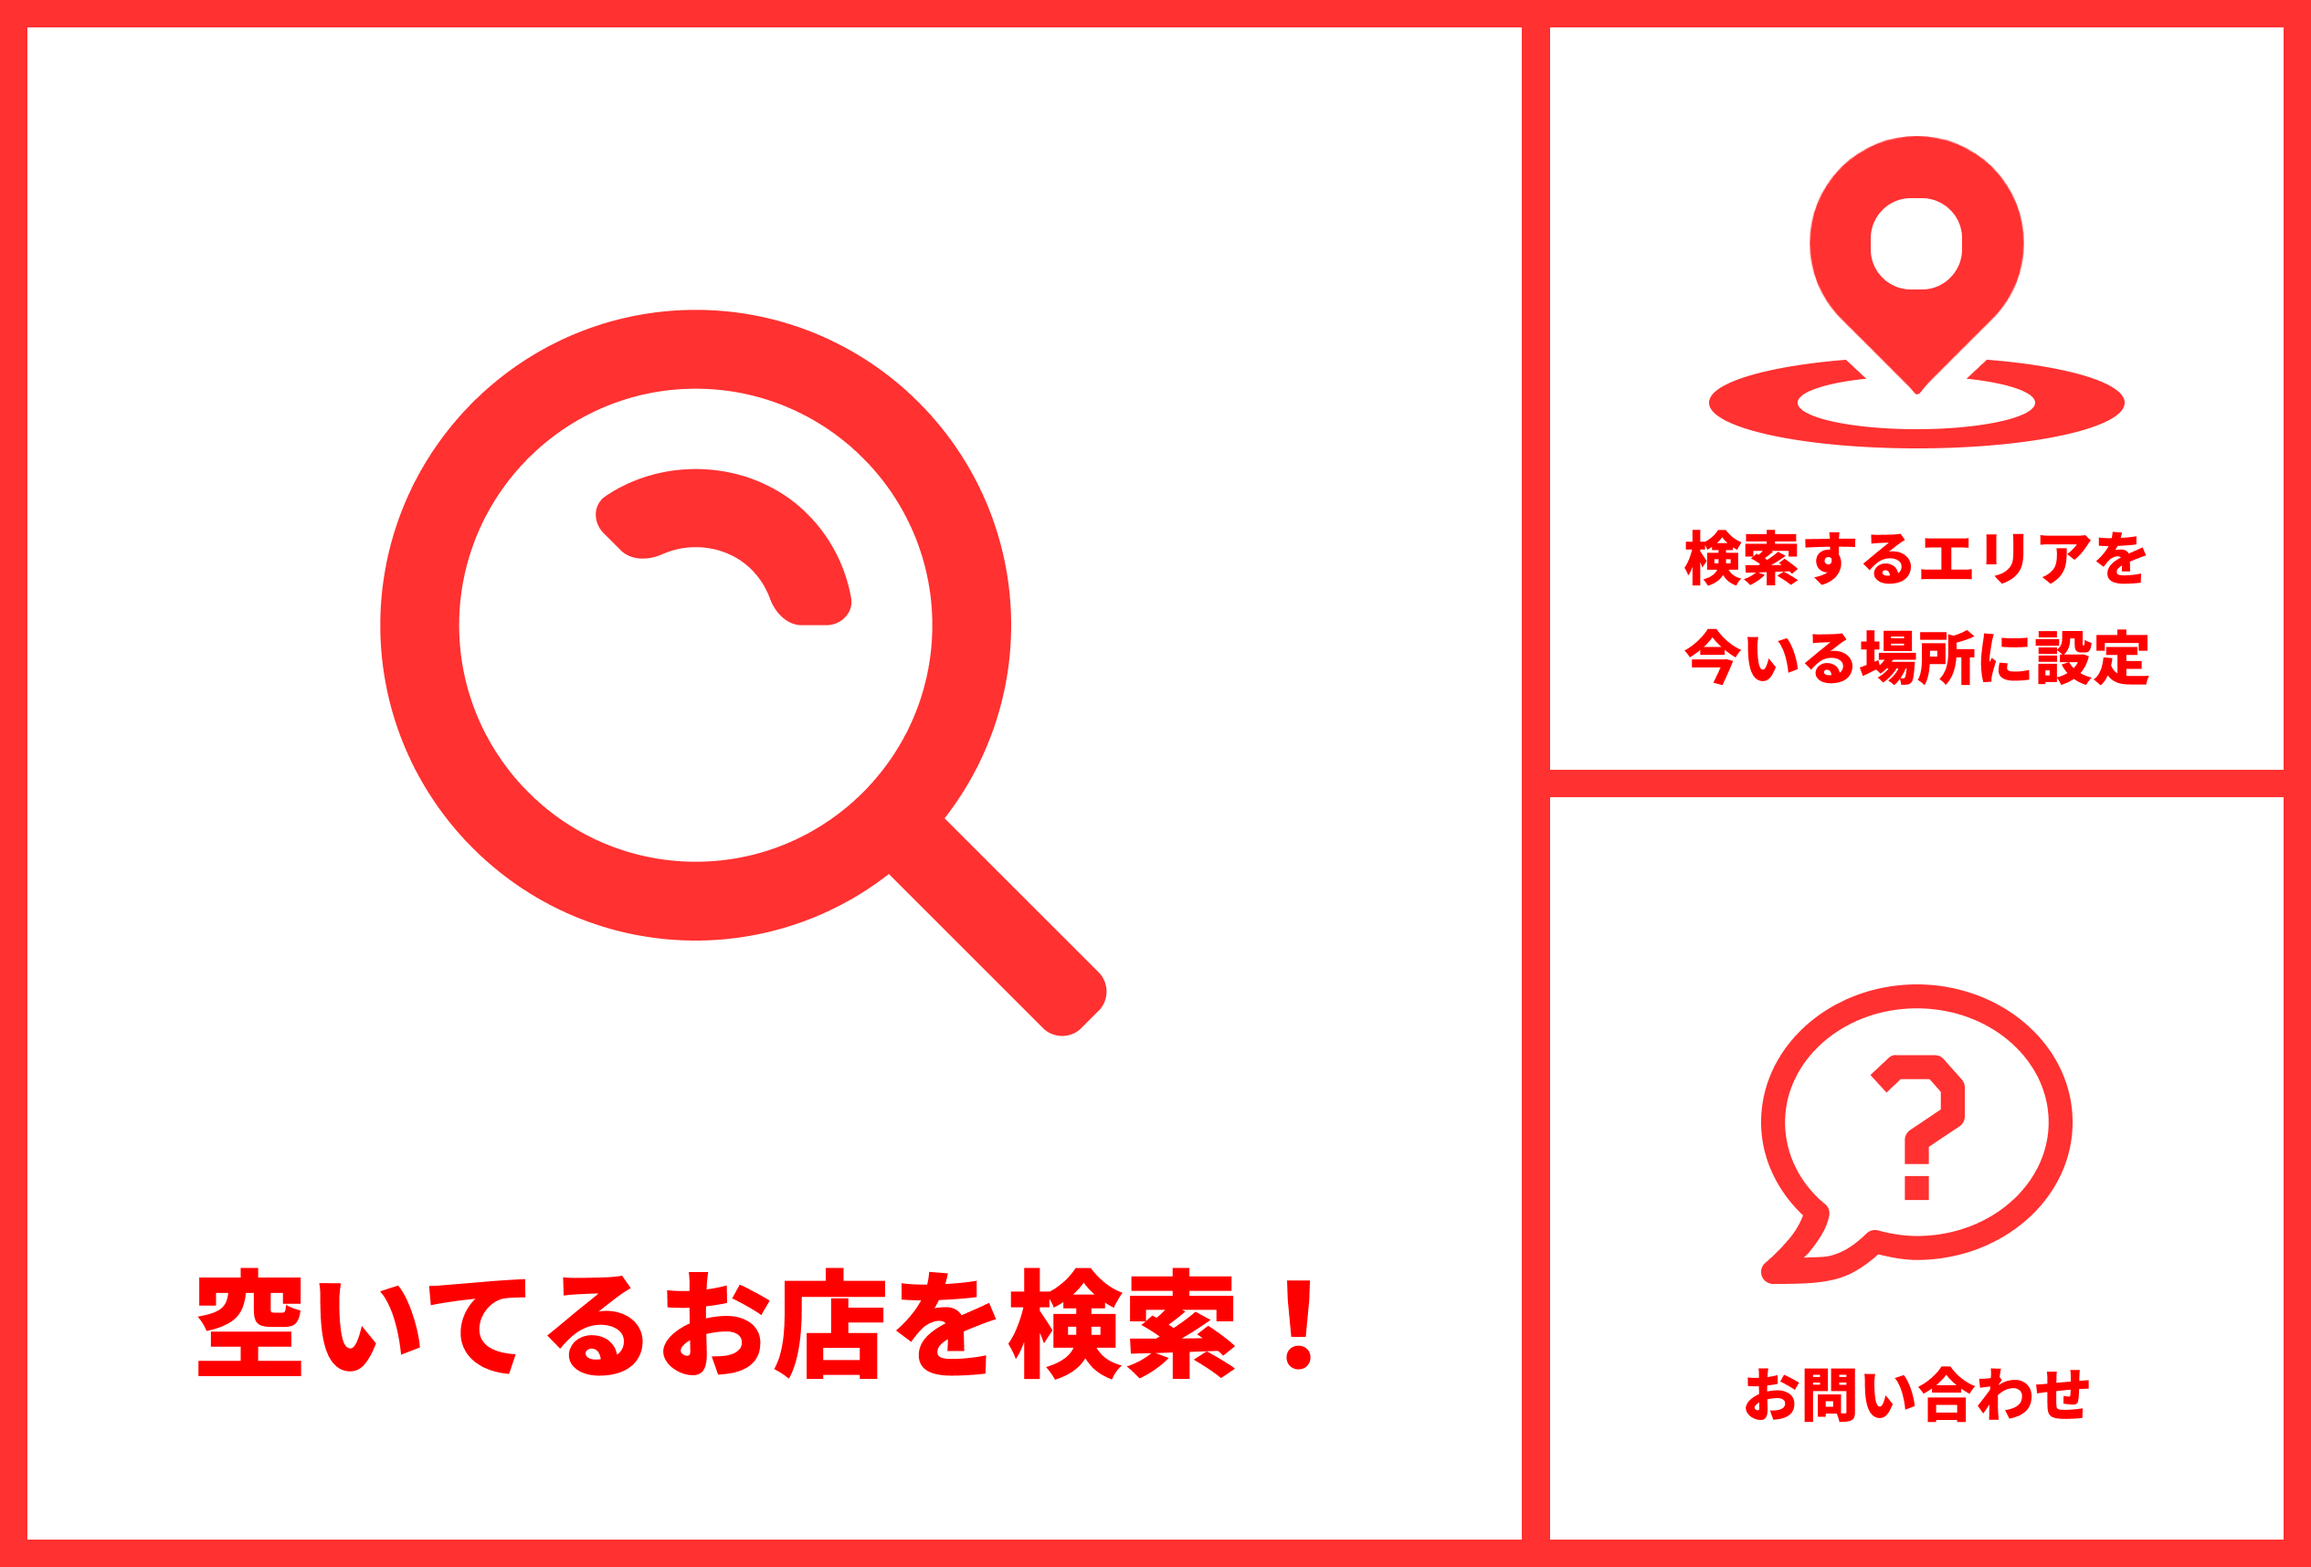
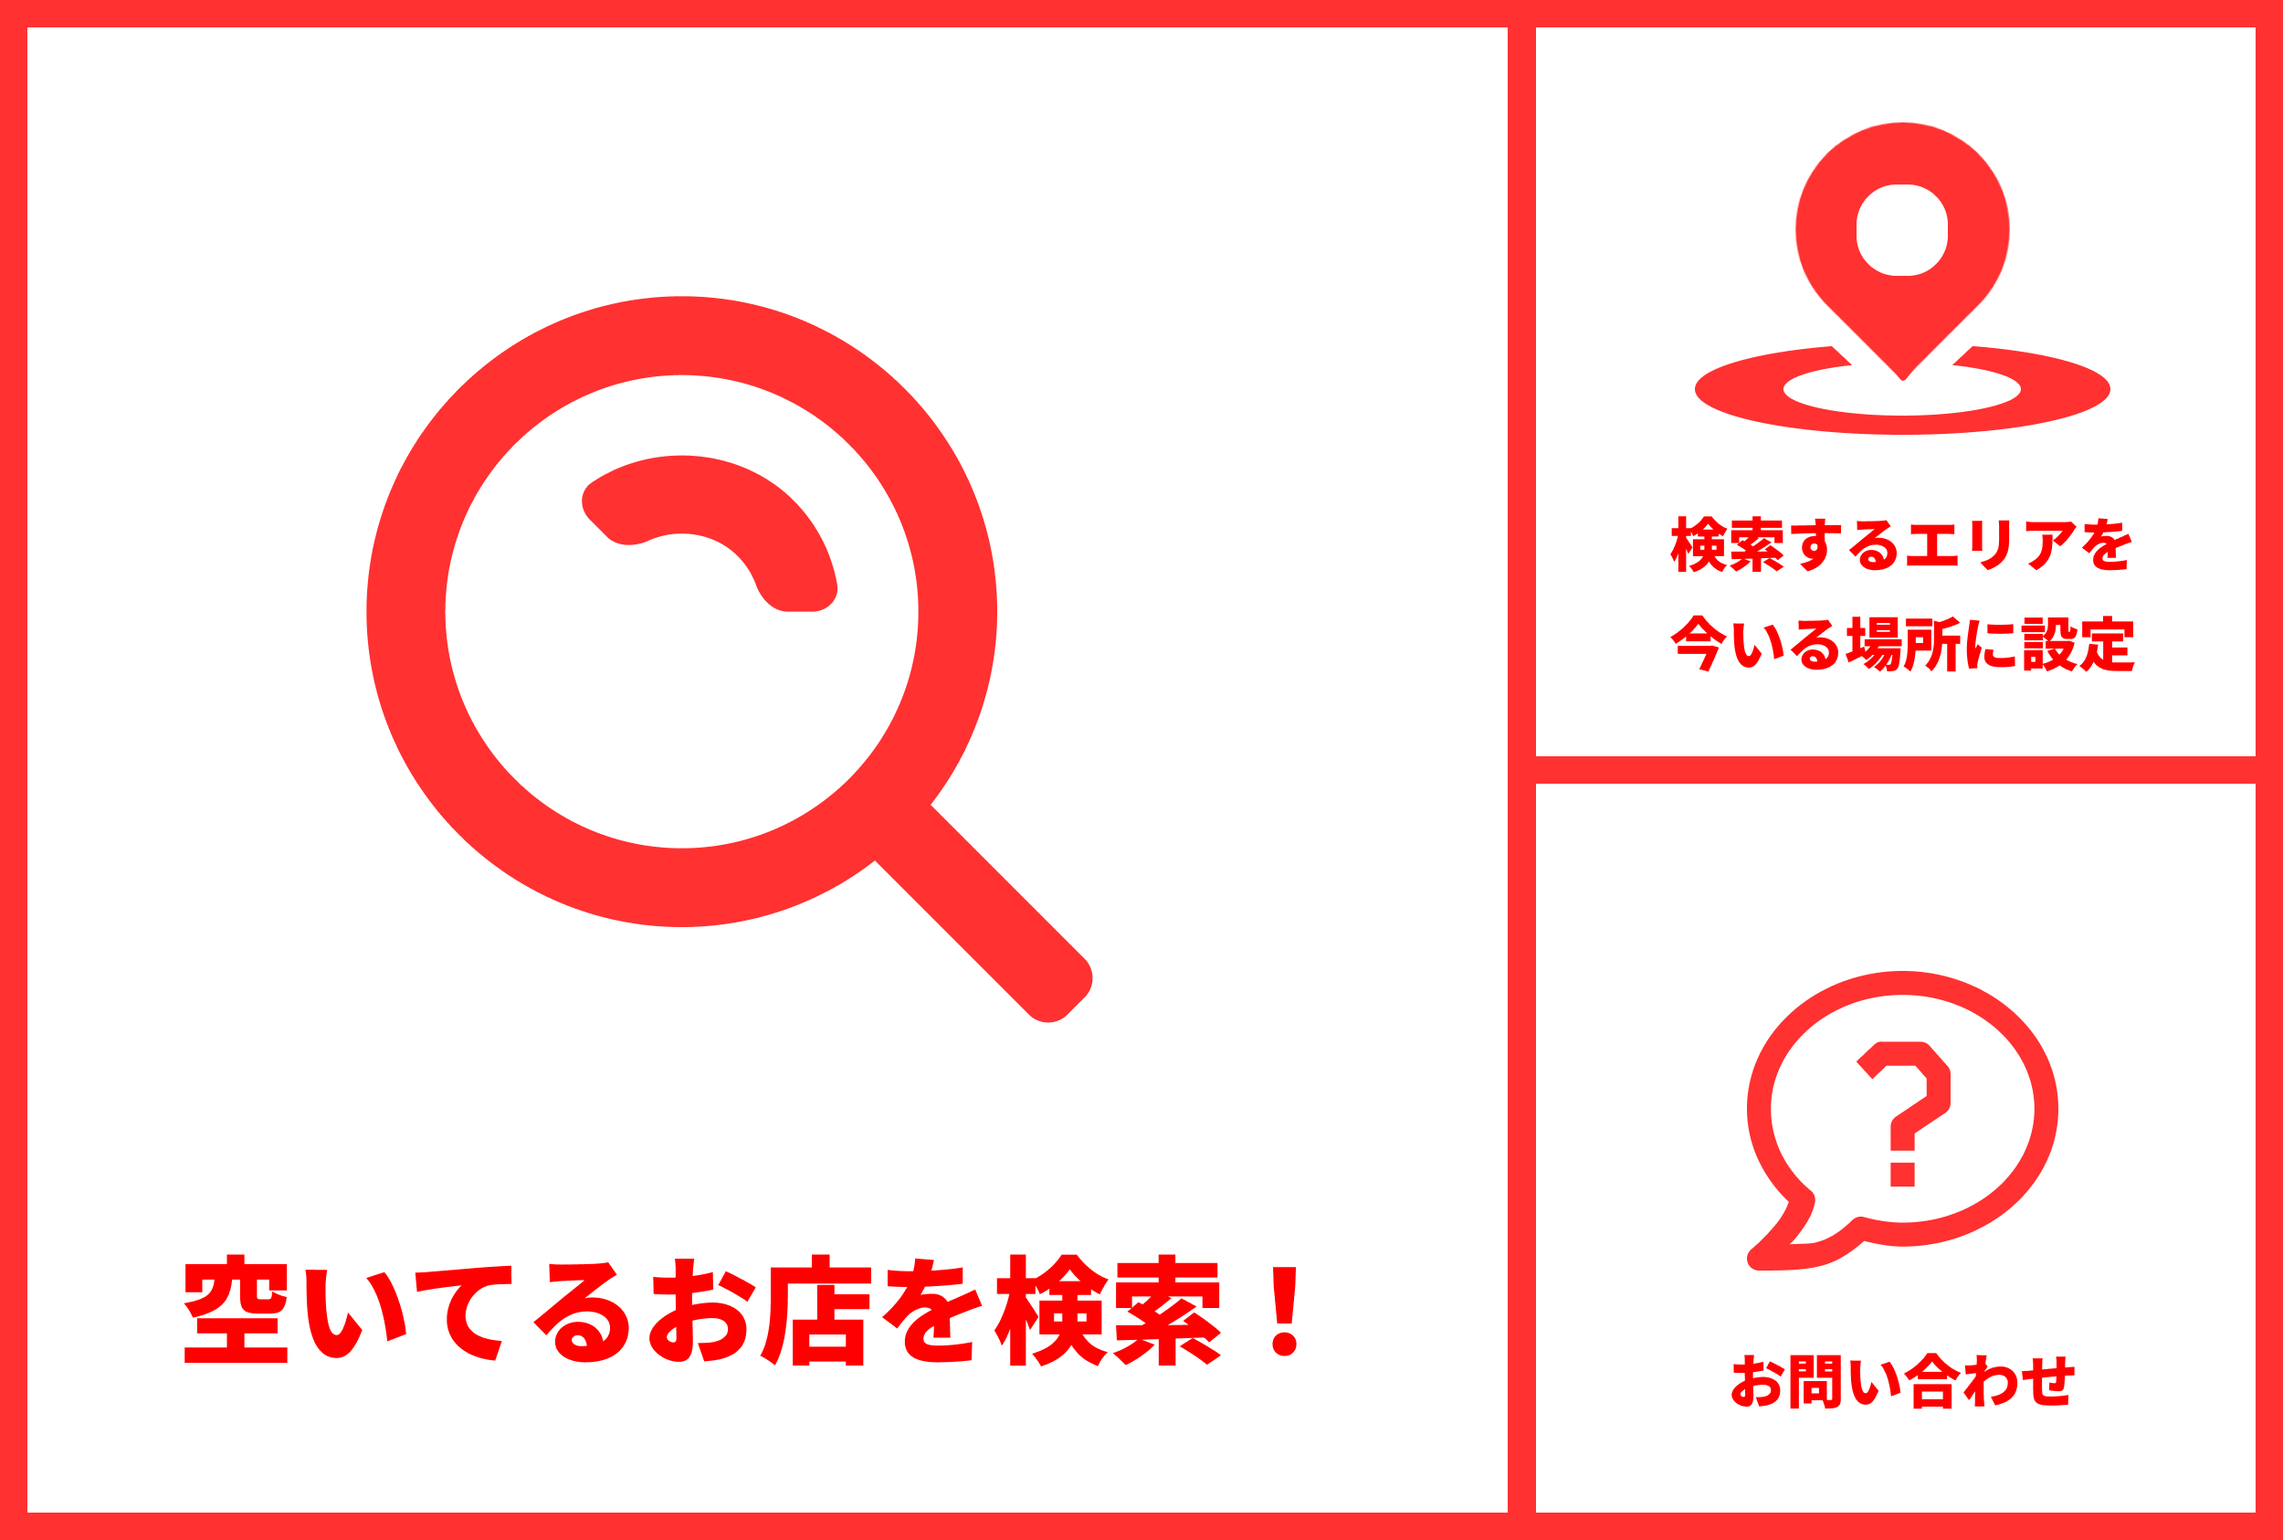
implements rich menu

diff --git a/main.go b/main.go
@@ -118,6 +118,52 @@ func main() {
 		log.Fatal(err)
 	}
 
+	richMenu := linebot.RichMenu{
+		Size: linebot.RichMenuSize{Width: 2500, Height: 1686},
+		Selected: true,
+		Name: "Common Menu",
+		ChatBarText: "タップして開きましょう",
+		Areas: []linebot.AreaDetail{
+			{
+				Bounds: linebot.RichMenuBounds{X: 0, Y: 0, Width: 1666, Height: 1686},
+				Action: linebot.RichMenuAction{
+					Type: linebot.RichMenuActionTypeMessage,
+					Text: "お店を検索",
+				},
+			},
+			{
+				Bounds: linebot.RichMenuBounds{X: 1666, Y: 0, Width: 833, Height: 843},
+				Action: linebot.RichMenuAction{
+					Type: linebot.RichMenuActionTypeMessage,
+					Text: "エリアを設定",
+				},
+			},
+			{
+				Bounds: linebot.RichMenuBounds{X: 1666, Y: 843 , Width: 833, Height: 843},
+				Action: linebot.RichMenuAction{
+					Type: linebot.RichMenuActionTypeMessage,
+					Text: "お問い合わせ",
+				},
+			},
+		},
+	}
+
+	res, err := bot.CreateRichMenu(richMenu).Do()
+	if err != nil {
+		log.Fatalf("Create richmenu error: %+v",err)
+	}
+
+	_, err = bot.UploadRichMenuImage(res.RichMenuID, "./static/richmenu.png").Do()
+
+	if err != nil {
+		log.Fatalf("Create richmenu image upload: %+v",err)
+	}
+
+	if _, err := bot.SetDefaultRichMenu(res.RichMenuID).Do(); err != nil {
+		log.Fatal(err)
+	}
+
+
 	// Static files hosting
 	http.Handle("/static/", http.StripPrefix("/static/", http.FileServer(http.Dir("static/"))))
 
